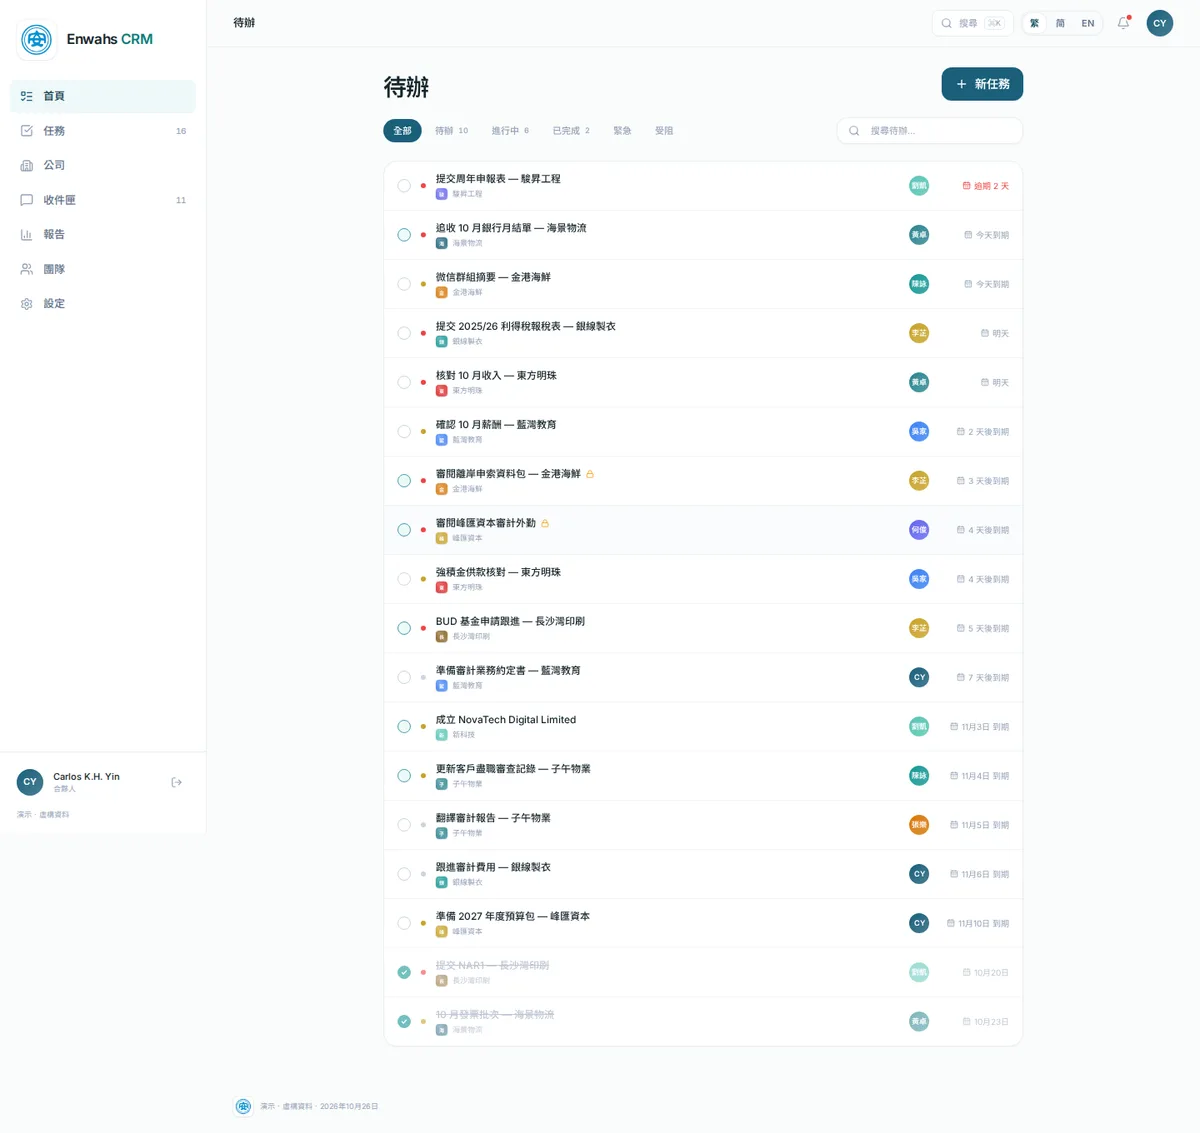
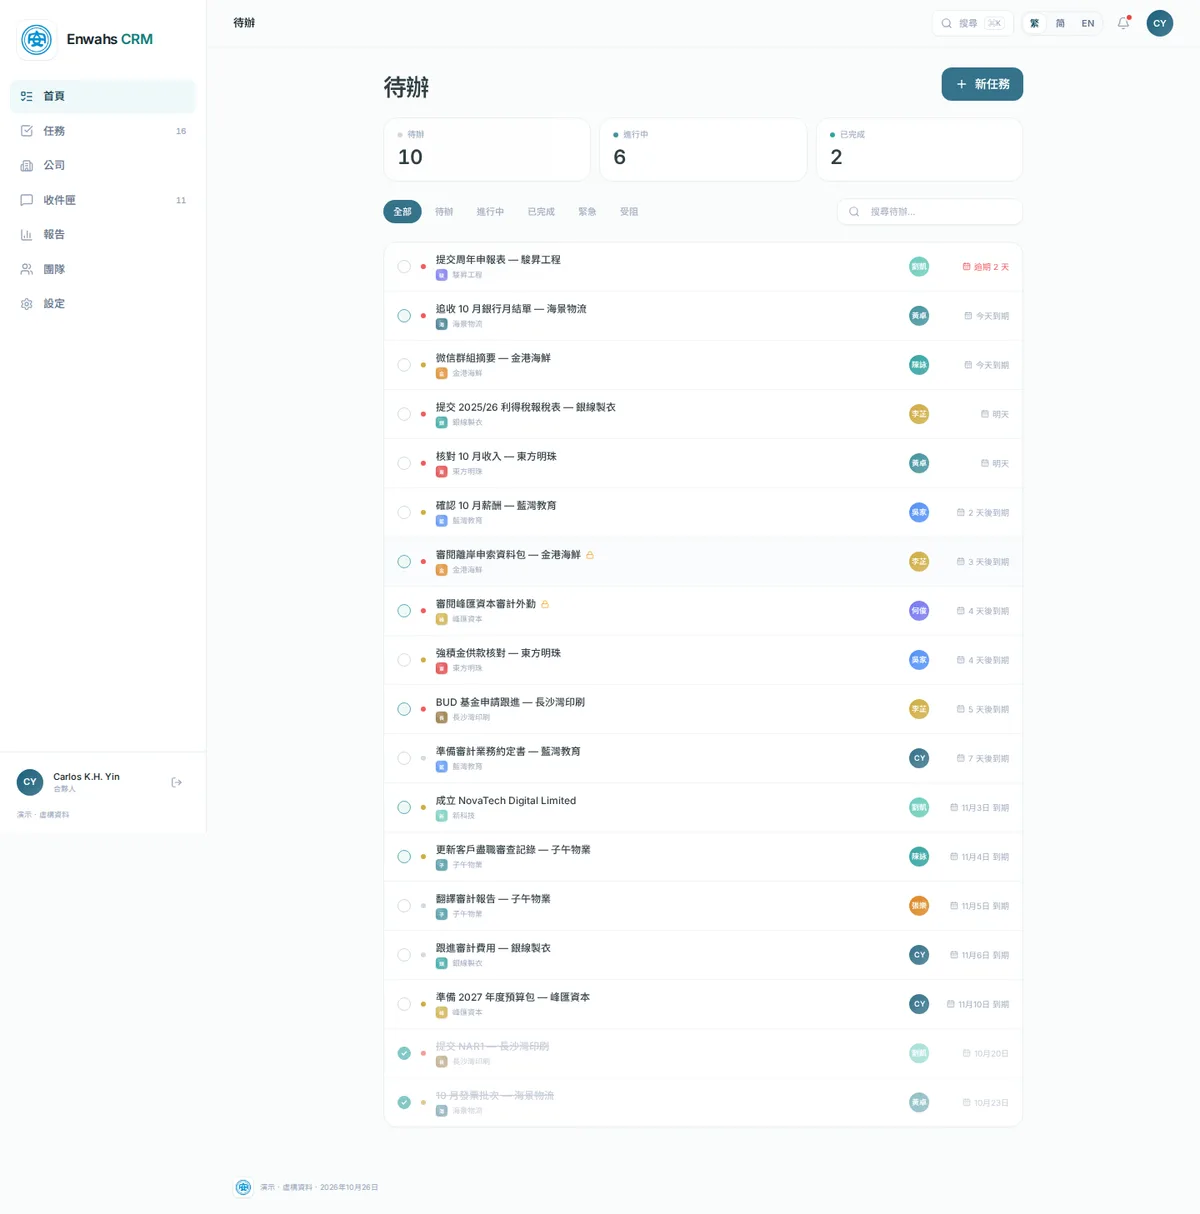
fix: add todo count grid and standardize Todo/Doing labels

diff --git a/app/(app)/dashboard/page.tsx b/app/(app)/dashboard/page.tsx
@@ -31,13 +31,19 @@ export default function HomePage() {
     done: data.tasks.filter((task) => task.status === "done").length,
   };
 
-  const tabs: { key: HomeFilter; label: string; count?: number }[] = [
+  const tabs: { key: HomeFilter; label: string }[] = [
     { key: "all", label: t("common.all") },
-    { key: "todo", label: t("status.todo"), count: counts.todo },
-    { key: "doing", label: t("status.doing"), count: counts.doing },
-    { key: "done", label: t("status.done"), count: counts.done },
+    { key: "todo", label: t("status.todo") },
+    { key: "doing", label: t("status.doing") },
+    { key: "done", label: t("status.done") },
     { key: "urgent", label: t("tasks.urgent") },
     { key: "blocked", label: t("tasks.blocked") },
+  ];
+
+  const summary = [
+    { key: "todo", label: t("status.todo"), value: counts.todo, dot: "bg-slate-300" },
+    { key: "doing", label: t("status.doing"), value: counts.doing, dot: "bg-brand-500" },
+    { key: "done", label: t("status.done"), value: counts.done, dot: "bg-teal-500" },
   ];
 
   const tasks = useMemo(() => {
@@ -90,6 +96,20 @@ export default function HomePage() {
         }
       />
 
+      <div className="grid grid-cols-3 gap-2.5">
+        {summary.map((item) => (
+          <div key={item.key} className="surface-card px-4 py-3">
+            <div className="flex items-center gap-1.5">
+              <span className={cn("h-1.5 w-1.5 rounded-full", item.dot)} />
+              <span className="text-[10px] font-medium text-slate-400">{item.label}</span>
+            </div>
+            <p className="mt-1 text-2xl font-semibold tracking-tight text-ink tabular-nums">
+              {item.value}
+            </p>
+          </div>
+        ))}
+      </div>
+
       <div className="flex flex-col gap-3 sm:flex-row sm:items-center sm:justify-between">
         <div className="flex items-center gap-1 overflow-x-auto no-scrollbar" role="tablist" aria-label={t("home.title")}>
           {tabs.map((tab) => {
@@ -109,11 +129,6 @@ export default function HomePage() {
                 )}
               >
                 {tab.label}
-                {tab.count !== undefined && (
-                  <span className={cn("text-[9px] tabular-nums", active ? "text-white/70" : "text-slate-400")}>
-                    {tab.count}
-                  </span>
-                )}
               </button>
             );
           })}

diff --git a/lib/i18n.tsx b/lib/i18n.tsx
@@ -129,8 +129,8 @@ const strings = {
   "nav.demoWorkspace": ["Enwahs demo workspace", "Enwahs 演示工作台", "Enwahs 演示工作台"],
   "nav.help": ["Demo guide", "演示指南", "演示指南"],
 
-  "status.todo": ["To do", "待辦", "待办"],
-  "status.doing": ["In progress", "進行中", "进行中"],
+  "status.todo": ["Todo", "待辦", "待办"],
+  "status.doing": ["Doing", "進行中", "进行中"],
   "status.done": ["Done", "已完成", "已完成"],
   "companyStatus.active": ["Active", "活躍", "活跃"],
   "companyStatus.at-risk": ["At risk", "高風險", "高风险"],
@@ -393,7 +393,7 @@ const strings = {
     "分数越高越健康，综合付款、回复与任务账龄。",
   ],
 
-  "home.title": ["To-do", "待辦", "待办"],
+  "home.title": ["Todo", "待辦", "待办"],
   "home.searchPlaceholder": ["Search todos…", "搜尋待辦…", "搜索待办…"],
   "tasks.title": ["Tasks", "任務", "任务"],
   "tasks.blocked": ["Blocked", "受阻", "受阻"],
